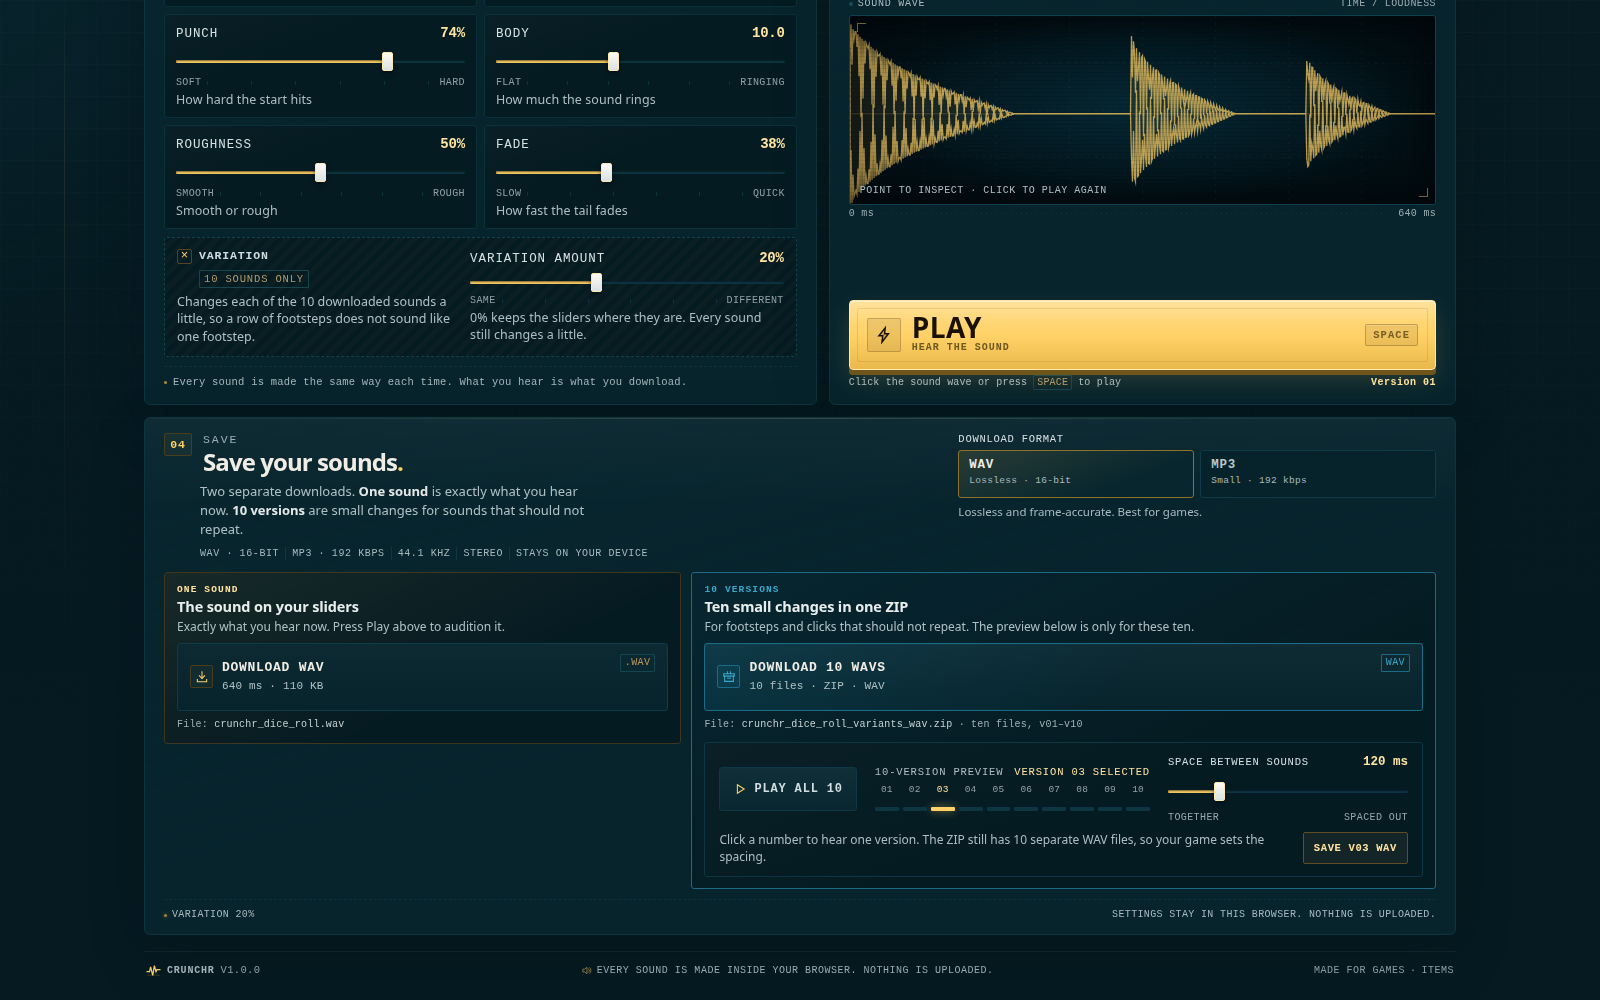
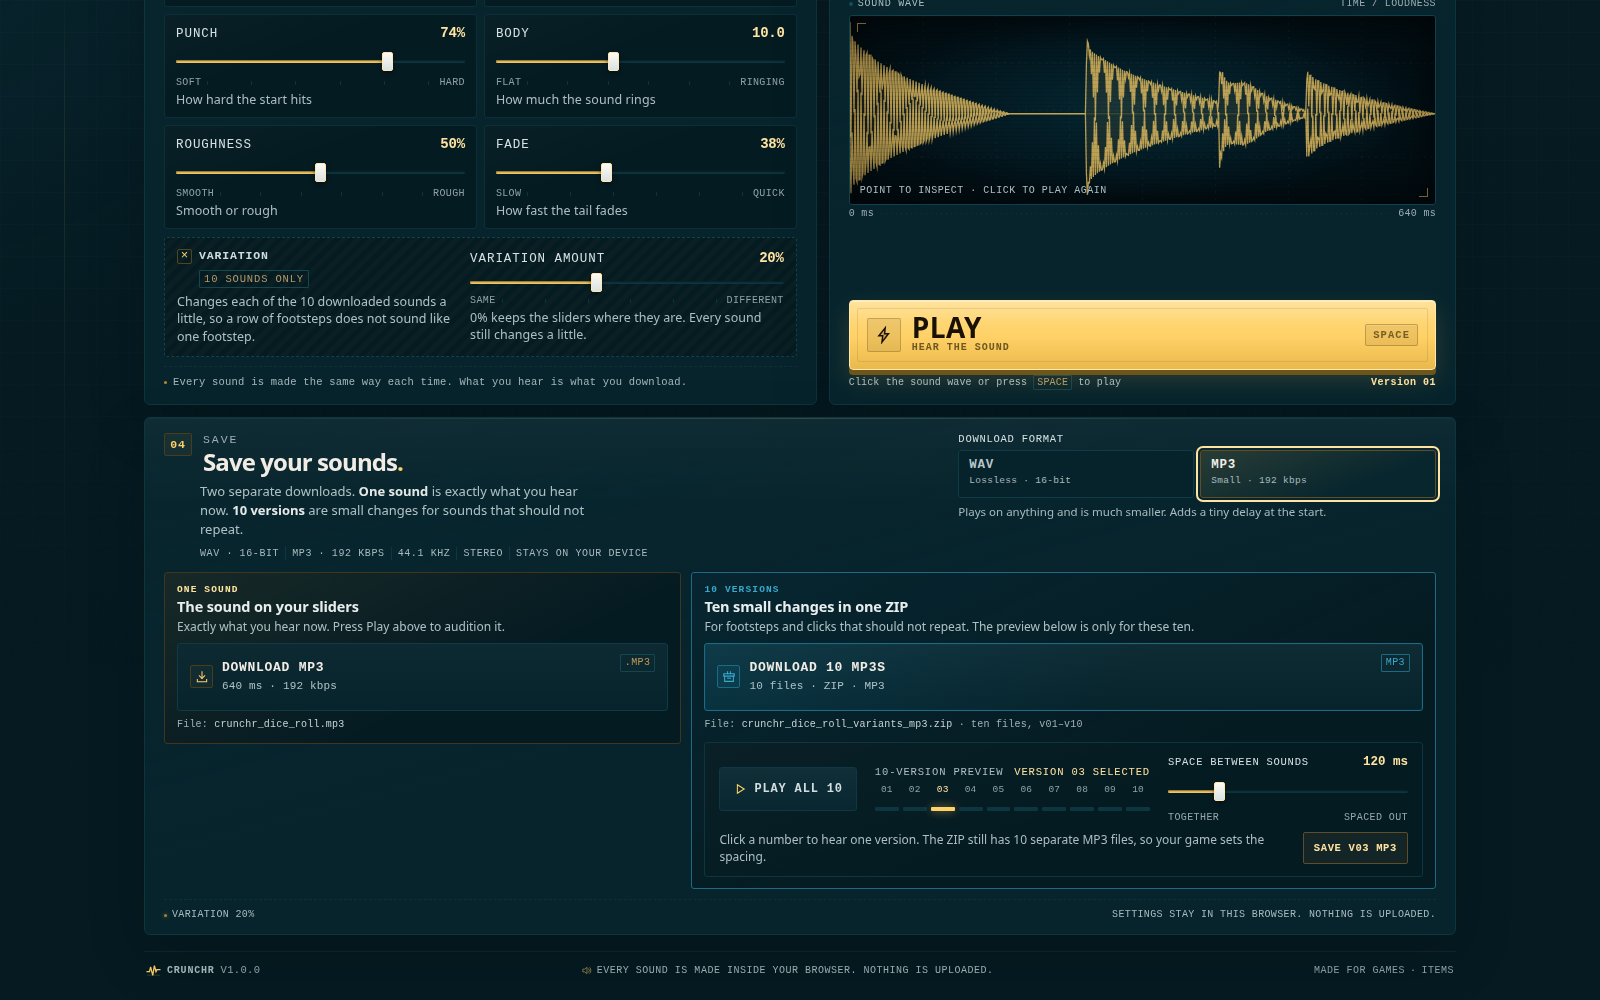
docs: refresh README and screenshots for WAV/MP3 export
The README now spells out that WAV stays bit-identical, MP3 comes from the same renders, the single-file build inlines the codec and its CSP uses wasm-unsafe-eval without network access. The README captures now show the MP3 format selected, the separate one-sound and ten-version cards, and Save v03 MP3.

diff --git a/README.md b/README.md
@@ -209,8 +209,9 @@ oscillators, FM and noise generators are implemented mathematically rather than
 as per-note Web Audio graphs, and there is intentionally no AudioWorklet or
 deprecated ScriptProcessor. That choice gives us:
 
-- **bit-identical preview/export results**: all ten ZIP versions use the exact
-  same renderer as the live audition;
+- **bit-identical WAV preview/export results**: all ten WAV ZIP versions use the
+  exact same renderer as the live audition. MP3 is encoded from those same
+  renders, then compressed by the local LAME codec;
 - **fast triggering**: the buffer is rendered ahead of time and reused until a
   parameter or seed changes;
 - **reliable single-file/offline builds**: no worklet module URLs to resolve;
@@ -232,17 +233,18 @@ npm run build:single   # one self-contained HTML file → dist-single/index.html
 ```
 
 Both builds use relative asset URLs. The single-file artifact is itch.io-ready
-and can be opened directly from disk; everything (JS, CSS, JSZip) is inlined.
-To publish on itch.io, run `npm run itch:dist` and upload the resulting ZIP as
-an **HTML Game**. The ZIP has `index.html` at the root and the MIT licence. Set
-the embed to **Click to launch in fullscreen** so the instrument gets the whole
-window. The app detects itch's frame and scrolls inside it, since itch turns page
-scrolling off. The itch page copy, page fields, store art and publish checklist
-are kept locally and ignored by git.
+and can be opened directly from disk; everything (JS, CSS, JSZip and the MP3
+codec) is inlined. To publish on itch.io, run `npm run itch:dist` and upload the
+resulting ZIP as an **HTML Game**. The ZIP has `index.html` at the root and the
+MIT licence. Set the embed to **Click to launch in fullscreen** so the instrument
+gets the whole window. The app detects itch's frame and scrolls inside it, since
+itch turns page scrolling off. The itch page copy, page fields, store art and
+publish checklist are kept locally and ignored by git.
 
 The production build includes a restrictive Content Security Policy. The single
-file allows inline JS/CSS, data/blob images, and blocks all network egress. The
-development server uses a separate policy that permits HMR.
+file allows inline JS/CSS, data/blob images and `'wasm-unsafe-eval'` for the
+inlined MP3 codec, and blocks all network egress. The development server uses a
+separate policy that permits HMR.
 
 ### Release media and store kit
 
